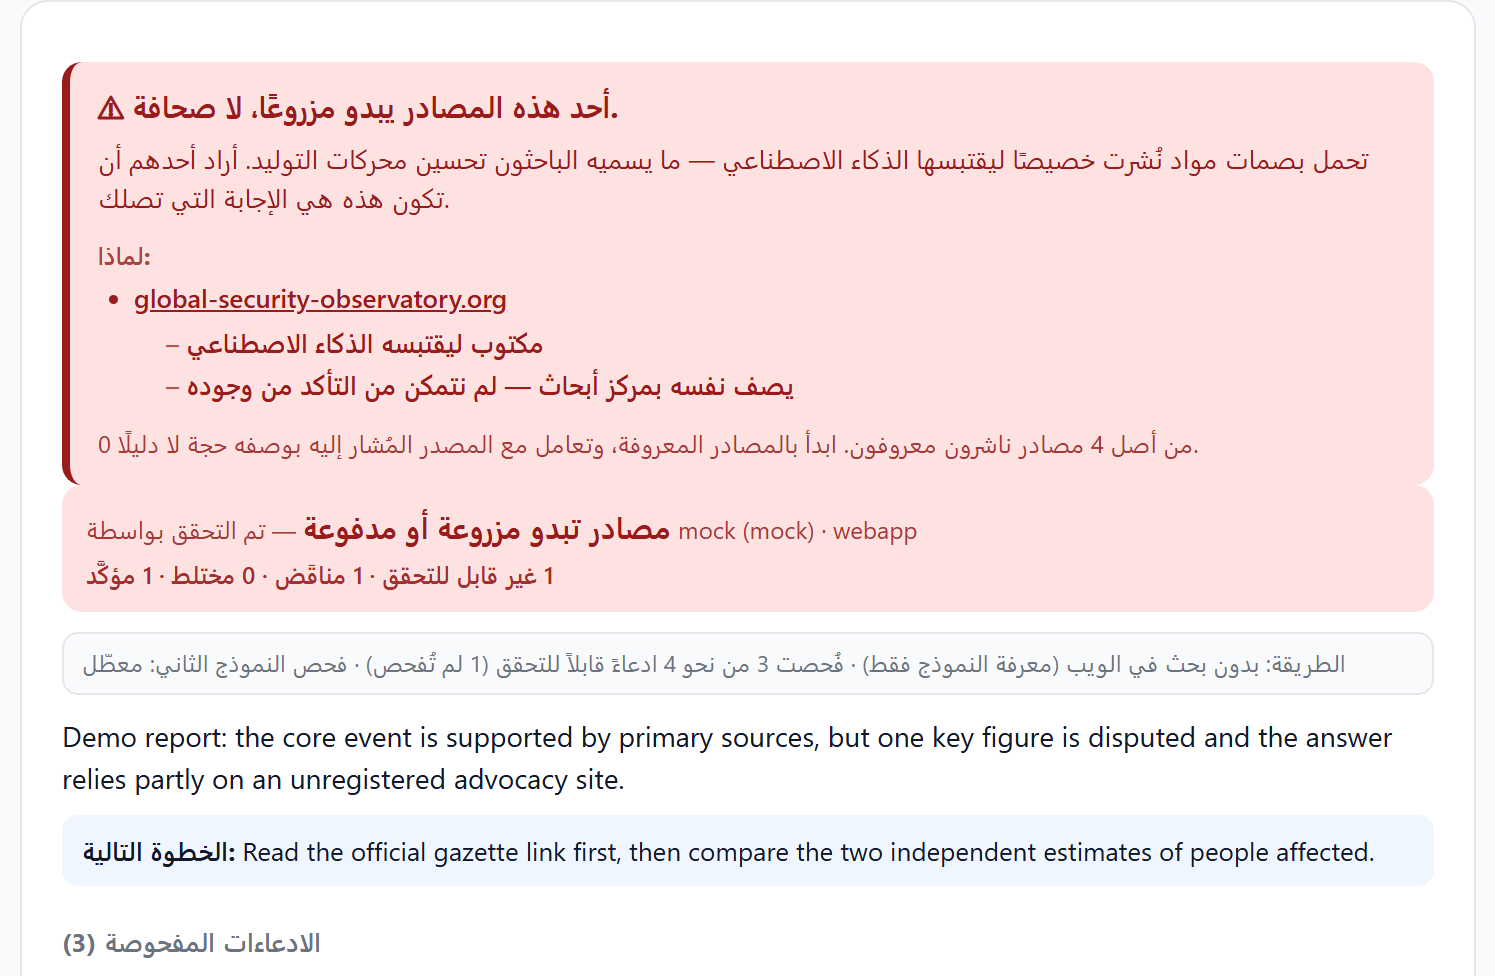
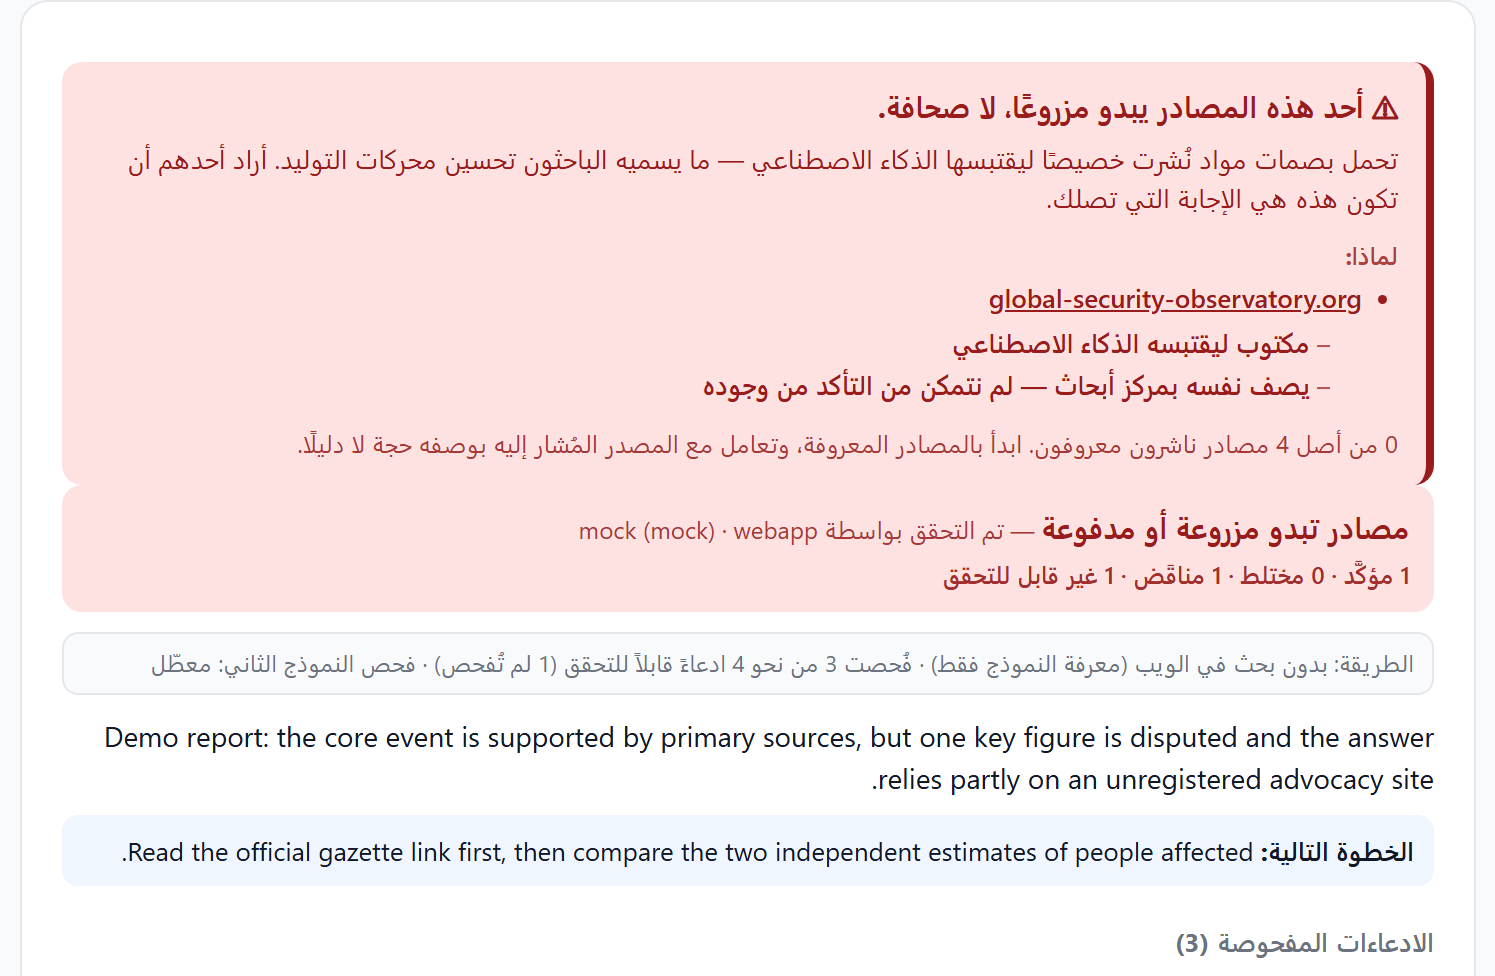
Fix page-direction race; make the risk card accent bar RTL-aware
renderSettings() is an async component that set dir on <html> from its own
reading of the stored language when it finished rendering. The host page
(panel.js / webapp app.js) sets direction too, from its own resolved language,
so whichever finished last won - an Arabic panel could silently render
left-to-right. Direction belongs to the page, not to a widget inside it; the
settings form now applies it only when the user changes the language dropdown,
which is a deliberate act with immediate feedback.

Caught because ?lang=ar rendered Arabic text inside an ltr document, which put
the risk card accent bar on the wrong edge. That bar is now
border-inline-start.

diff --git a/extension/engine/ui/settings-ui.js b/extension/engine/ui/settings-ui.js
@@ -193,6 +193,9 @@ export function renderSettings(container) {
     inputs.grounding.checked = s.grounding !== false;
     inputs.maxClaims.value = s.maxClaims || 5;
     refreshVisibility();
-    applyDirection(L);
+    // NOTE: no applyDirection() here. This component renders asynchronously, so
+    // setting page direction from its own storage read raced the host page and
+    // whichever finished last won. Direction is the page's to own; the dropdown
+    // handler above still applies it when the user actually changes language.
   })();
 }

diff --git a/CHANGELOG.md b/CHANGELOG.md
@@ -62,6 +62,14 @@ GEO stands for to find that out.
   a fresh run for the rest of the session.
 - **Cached reports rendered with fewer features than fresh ones** — they lost the
   language setting and the Copy button.
+- **Page direction depended on a storage-read race.** `renderSettings()` is an async
+  component that set `dir` on `<html>` from its own reading of the stored language when
+  it finished. The host page sets direction too, from its own resolved language, so
+  whichever finished last won — an Arabic panel could silently render left-to-right.
+  Direction now belongs to the page; the settings form only applies it when the user
+  actually changes the language dropdown.
+- The accent bar on the risk card used `border-left`, which sat on the wrong edge in
+  Arabic. Now `border-inline-start`.
 - **Arabic reports reordered the verdict counts.** "1 supported · 0 mixed" was built
   as one string, so bidi reordering detached each Latin digit from its Arabic label.
   Each count is now a bidi-isolated `<bdi>` node.
